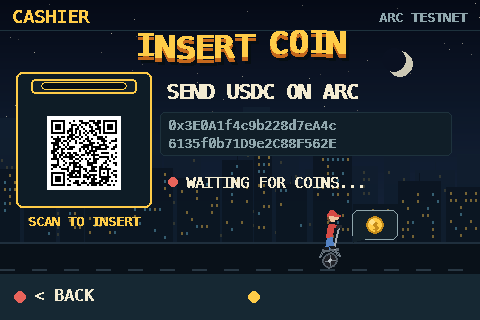
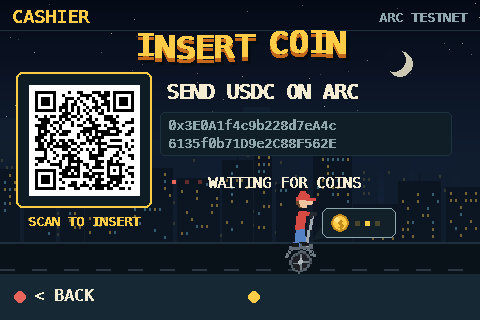
Update insert coin design and functionality in mockup script
- Replaced the coin slot function with a new pulse animation for visual feedback.
- Enhanced the waiting rider's appearance and behavior to better indicate readiness for coin insertion.
- Updated README.md to reflect changes in the design, emphasizing the waiting sign's role and the blinking dots.
- Modified QR code placement for improved aesthetics and functionality.

Changed region(s): [[0.0625, 0.25, 0.3125, 0.625], [0.3438, 0.5312, 0.8438, 0.875]]

diff --git a/design/insert-coin/make_mockups.py b/design/insert-coin/make_mockups.py
@@ -120,12 +120,11 @@ ADDRESS = '0x3E0A1f4c9b228d7eA4c6135f0b71D9e2C88F562E'
 QR_TEXT = f'ethereum:{ADDRESS}@5042002'
 
 
-def slot(s, rect, lit=YELLOW):
-    """An arcade coin slot: a dark capsule in a lit plate."""
-    panel(s, rect, fill=(18, 32, 42), edge=lit, width=2, radius=4)
-    inner = pygame.Rect(rect.x + 10, rect.centery - 4, rect.w - 20, 8)
-    pygame.draw.rect(s, SHADOW, inner, border_radius=4)
-    pygame.draw.rect(s, lit, inner, 1, border_radius=4)
+def pulse(s, x, y, size=7, count=3, gap=13, lit=RED, dim=(96, 44, 44), phase=0):
+    """A row of square dots with one alight: one still frame of a thing that blinks."""
+    for i in range(count):
+        color = lit if i == phase else dim
+        pygame.draw.rect(s, color, (x + i * gap, y - size // 2, size, size))
 
 
 def chevron(s, x, y, up=True, color=MINT, size=7):
@@ -171,25 +170,36 @@ def city(s, top=10, low=68):
     s.blit(shade, (0, 0))
 
 
-def waiting_rider(s, x=330, ground=268):
-    """The kid from the game, parked on the street with nothing to do yet."""
+def waiting_rider(s, x=300, ground=272, scale=1.4):
+    """The kid from the game, parked on the street with nothing to do yet.
+
+    He is the waiting indicator: drawn half again his in-game size so the idle
+    sway reads across the room, holding his balance on the spot, thinking about
+    a coin nobody has sent, with the dots that say he is still hanging on for it.
+    """
     rider = Rider()
     for _ in range(26):                      # let the idle sway settle somewhere natural
         rider.update(1 / 30, 0.0, False)
-    rider.draw(s, x, ground, 0.0)
-    bubble = pygame.Rect(x + 22, ground - 58, 46, 30)
+    pad = pygame.Surface((120, 120), pygame.SRCALPHA)
+    rider.draw(pad, 60, 110, 0.0)
+    big = pygame.transform.scale(pad, (int(120 * scale), int(120 * scale)))
+    s.blit(big, (x - 60 * scale, ground - 110 * scale))
+
+    bubble = pygame.Rect(x + 22, ground - 64, 74, 30)
+    pygame.draw.polygon(s, (18, 32, 42), [(bubble.x, bubble.bottom - 12),
+                                          (bubble.x - 10, bubble.bottom + 2),
+                                          (bubble.x + 6, bubble.bottom - 1)])
     panel(s, bubble, fill=(18, 32, 42), edge=MUTED, width=1, radius=6)
-    pygame.draw.polygon(s, (18, 32, 42), [(bubble.x + 2, bubble.bottom - 8),
-                                          (bubble.x + 1, bubble.bottom + 2),
-                                          (bubble.x + 12, bubble.bottom - 1)])
-    coin(s, bubble.centerx, bubble.centery, 9)
+    coin(s, bubble.x + 18, bubble.centery, 9)
+    pulse(s, bubble.x + 33, bubble.centery, 5, 3, 10, lit=YELLOW, dim=(74, 70, 44), phase=1)
 
 
 def insert_coin():
     """Waiting for money. The QR is the coin slot, and it is the only job here.
 
     Everything is packed into the top two thirds so the game's own street stays
-    open along the bottom, with the rider waiting on it for someone to pay.
+    open along the bottom, where the rider is the waiting sign: parked, balancing
+    on the spot, thinking about the coin nobody has sent him yet.
     """
     s = new_screen()
     city(s)
@@ -198,9 +208,8 @@ def insert_coin():
 
     bezel = pygame.Rect(16, 72, 136, 136)
     panel(s, bezel, fill=(14, 28, 38), edge=YELLOW, width=2, radius=6)
-    slot(s, pygame.Rect(bezel.x + 15, bezel.y + 7, bezel.w - 30, 15))
-    qr = qr_image(QR_TEXT, 100)
-    s.blit(qr, qr.get_rect(center=(bezel.centerx, bezel.centery + 13)))
+    qr = qr_image(QR_TEXT, 116)
+    s.blit(qr, qr.get_rect(center=bezel.center))
     say(s, 'SCAN TO INSERT', bezel.centerx, bezel.bottom + 5, 13, YELLOW, center=True)
 
     x = 166
@@ -209,8 +218,8 @@ def insert_coin():
     panel(s, box, fill=(16, 30, 40))
     say(s, ADDRESS[:21], x + 2, 117, 13, MUTED)
     say(s, ADDRESS[21:], x + 2, 135, 13, MUTED)
-    pygame.draw.circle(s, RED, (x + 7, 182), 5)
-    say(s, 'WAITING FOR COINS...', x + 20, 174, 15, CREAM)
+    pulse(s, x + 6, 182, 4, 3, 13)
+    say(s, 'WAITING FOR COINS', x + 42, 174, 15, CREAM)
 
     waiting_rider(s)
     footer(s, '< BACK', '')
@@ -519,6 +528,9 @@ class Move:
 def encode_gif(move: Move, name: str) -> list:
     """Frames to a GIF through ffmpeg, doubled with nearest-neighbour so it stays pixel art."""
     frames = [move.frame(i / FPS) for i in range(int(move.length * FPS))]
+    if shutil.which('ffmpeg') is None:       # stills still regenerate; the GIF waits for ffmpeg
+        print(f'{name}.gif  skipped (no ffmpeg on PATH)')
+        return frames
     temp = Path(tempfile.mkdtemp(prefix='tick-move-'))
     try:
         for i, image in enumerate(frames):

diff --git a/design/insert-coin/README.md b/design/insert-coin/README.md
@@ -20,10 +20,11 @@ I pick the money button and press A.
 
 ![insert coin](01-insert-coin.png)
 
-One QR code in a coin-slot bezel, `SEND USDC ON ARC`, `WAITING FOR COINS...`,
-the address. That is everything. No cash-out wording, no balance, no house
-rules — none of that applies until money is in. The game's own city is behind
-it and the kid is parked on the street, waiting for someone to pay.
+One QR code in a lit bezel, `SEND USDC ON ARC`, `WAITING FOR COINS`, the
+address. That is everything. No cash-out wording, no balance, no house rules —
+none of that applies until money is in. The game's own city is behind it, and
+the kid on the wheel is the waiting sign: parked on the street, holding his
+balance, thinking about a coin nobody has sent yet. Both sets of dots blink.
 
 ## 2. The money lands
 
